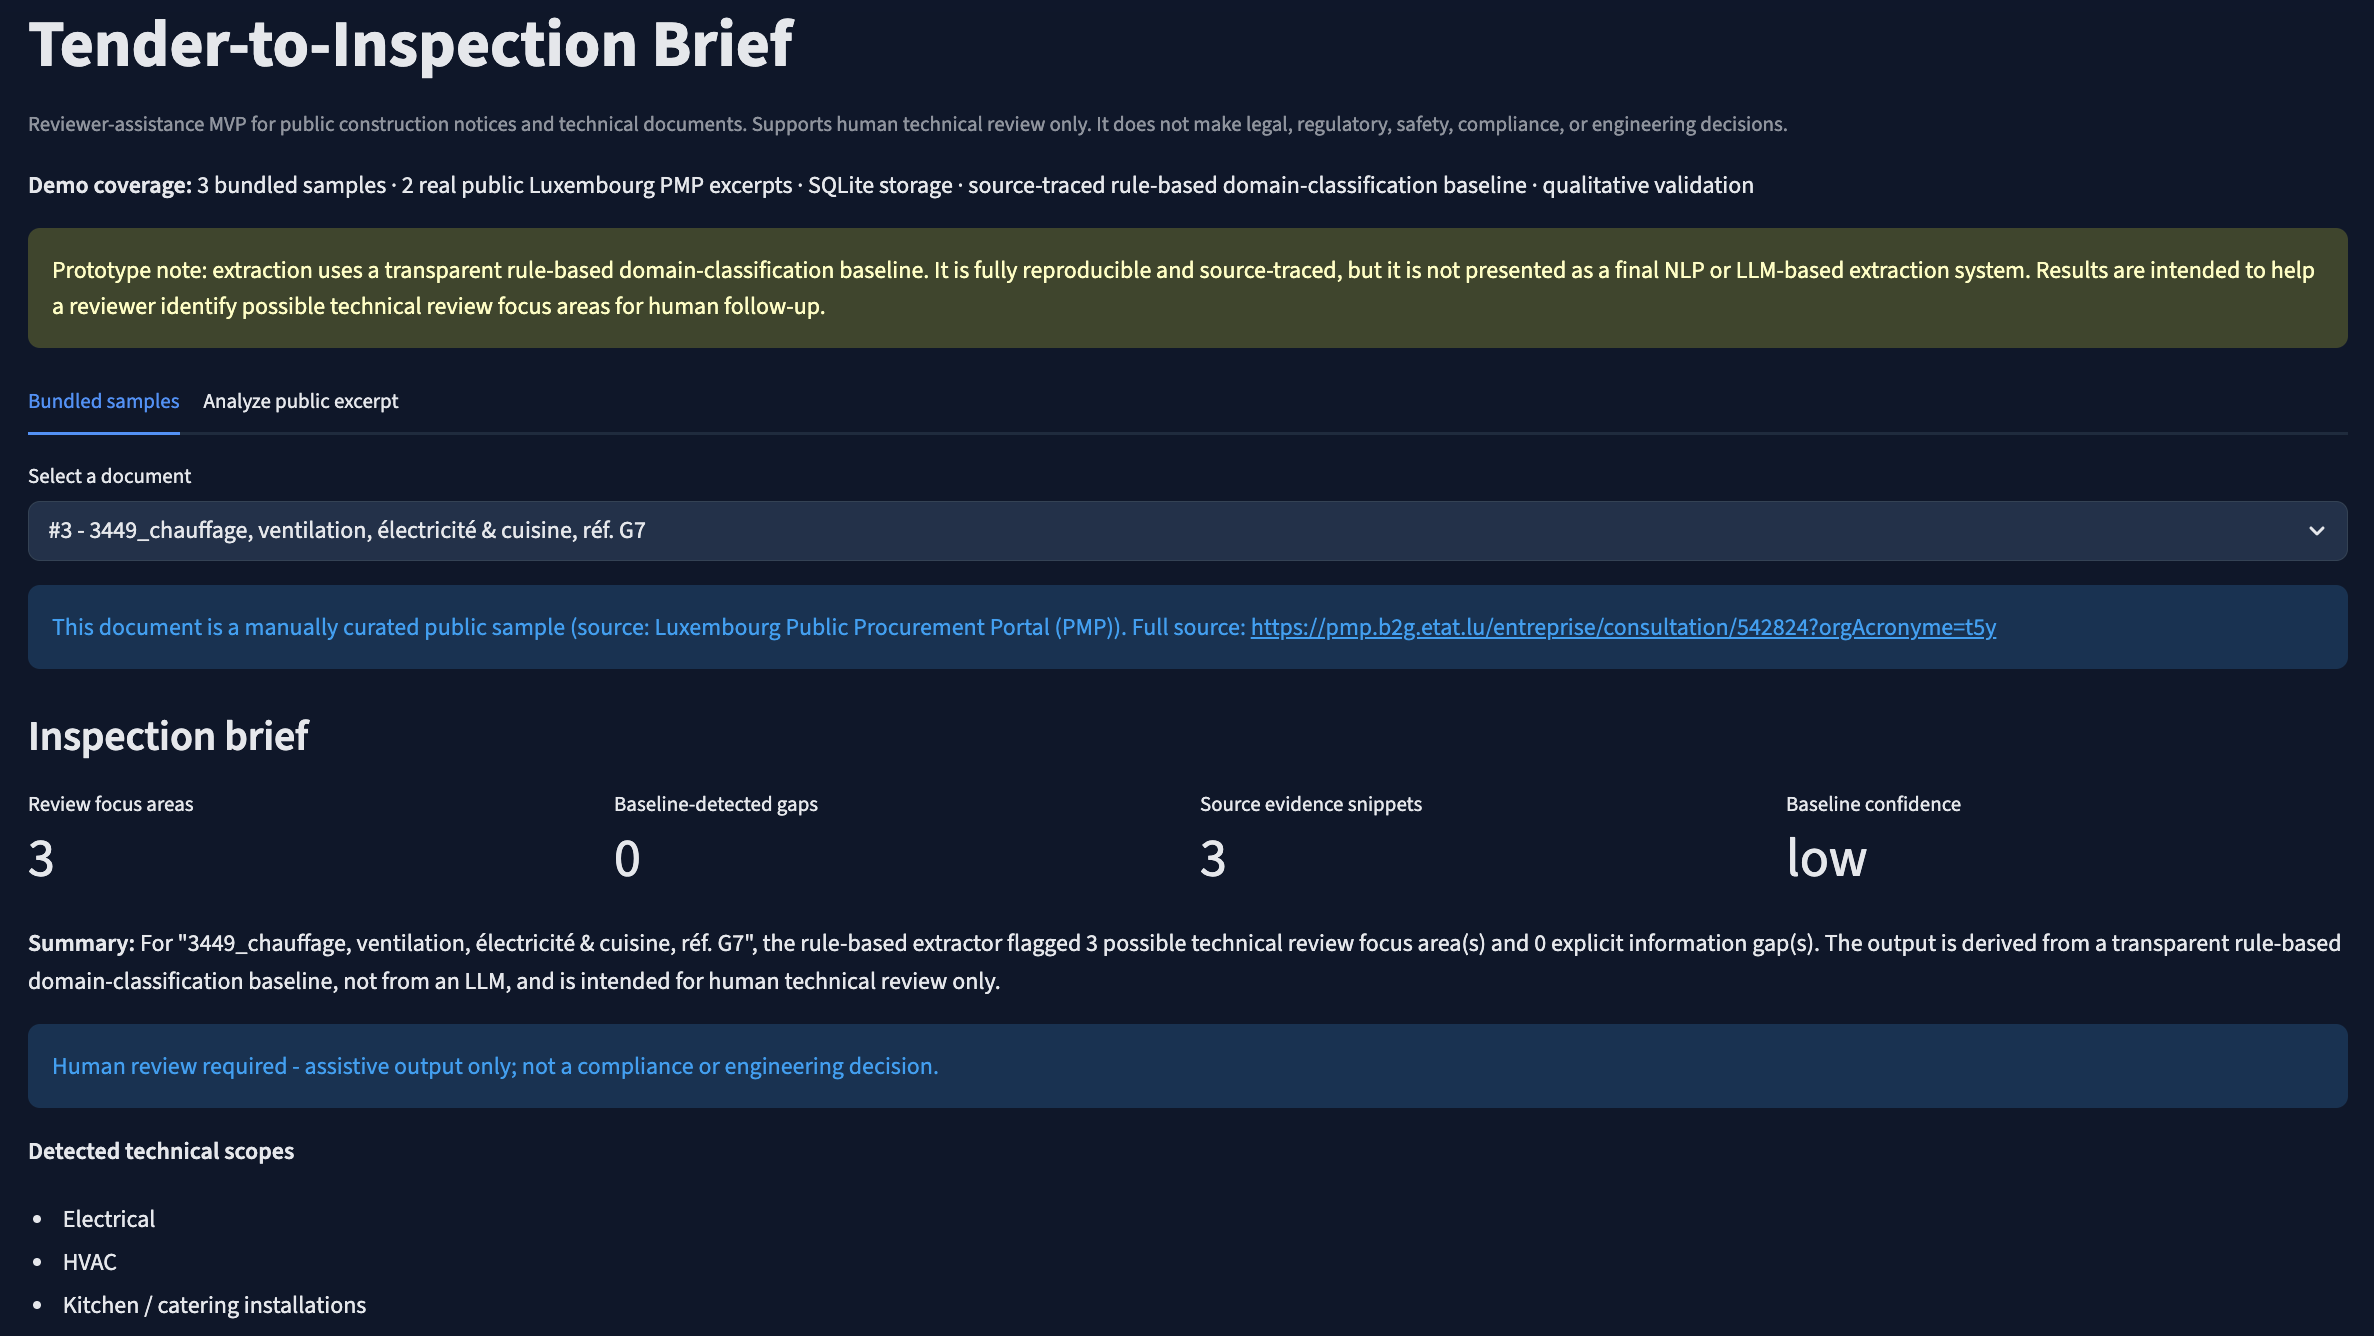
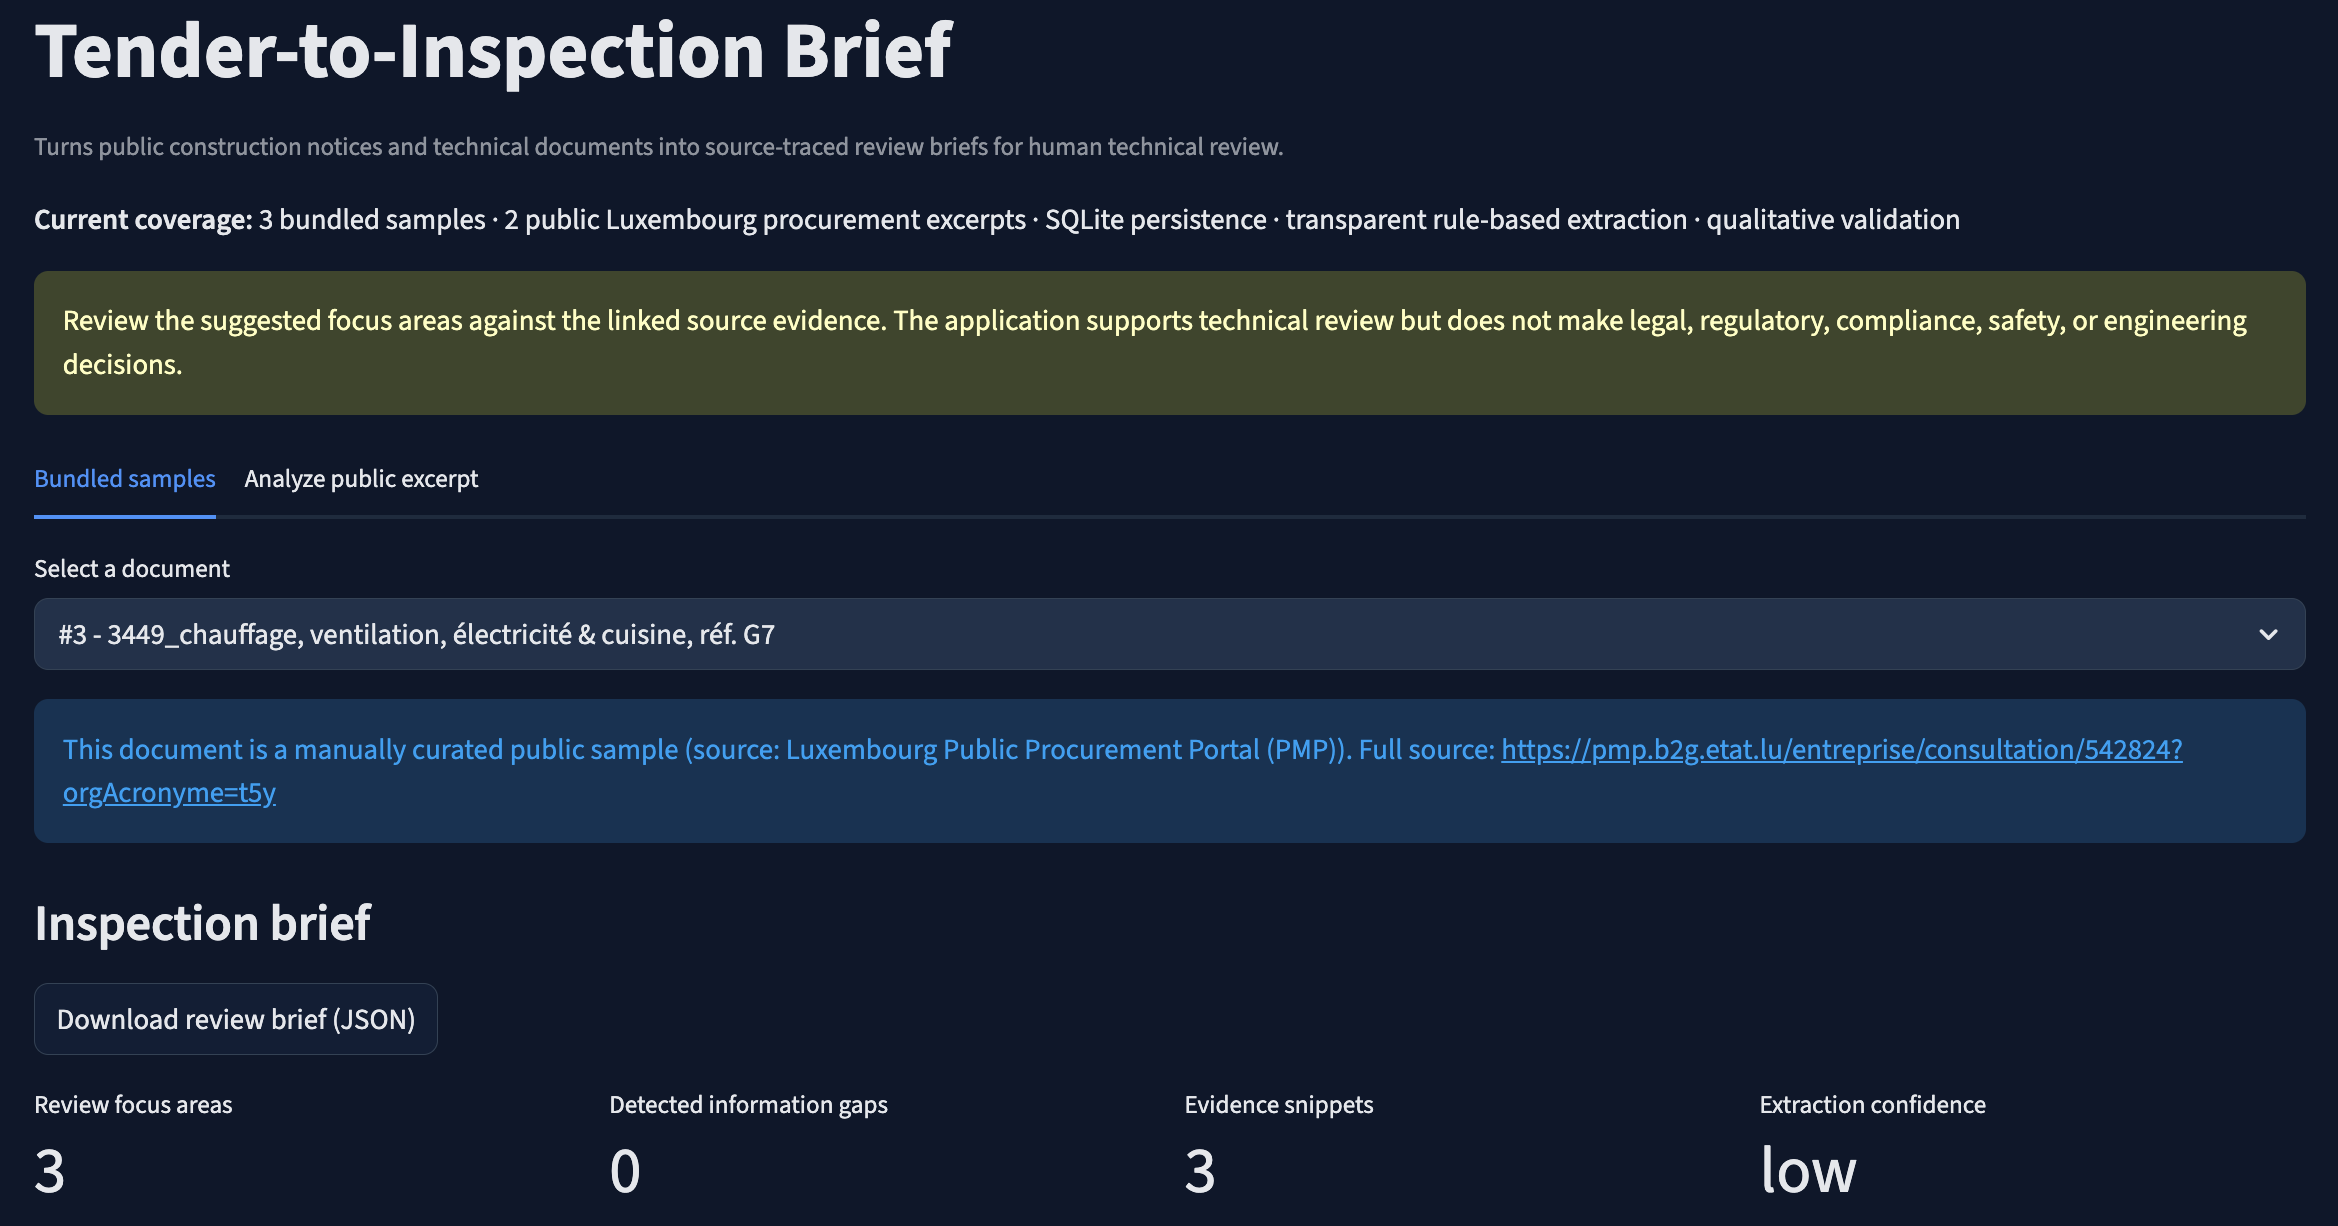
docs: prepare v0.3.0 release
Move the completed provenance, versioned export, review workflow, and reproducibility work into the v0.3.0 release history and refresh the application screenshots.

diff --git a/README.md b/README.md
@@ -304,10 +304,14 @@ Near-term priorities are:
 
 ### Unreleased
 
-* Added explicit processing-run provenance and preserved processing history.
-* Added a versioned JSON export contract for persisted briefs.
-* Added deterministic serialization and a Streamlit JSON download.
-* Added independent-run reproducibility verification for stable exported brief content.
+_No unreleased changes._
+
+### v0.3.0 — Traceable and reproducible review briefs (2026-08-03)
+
+* Added processing-run provenance with timestamps, extractor and schema versions, source-content fingerprints, and preserved processing history.
+* Added versioned JSON exports linking each persisted brief to its document metadata, exact processing run, structured findings, and source evidence.
+* Improved the review workflow and made the **Download review brief (JSON)** action easier to find.
+* Added independent-run reproducibility verification for stable exported content while allowing run-specific identifiers and timestamps to vary.
 
 ### v0.2.0 — Public-excerpt preview
 
